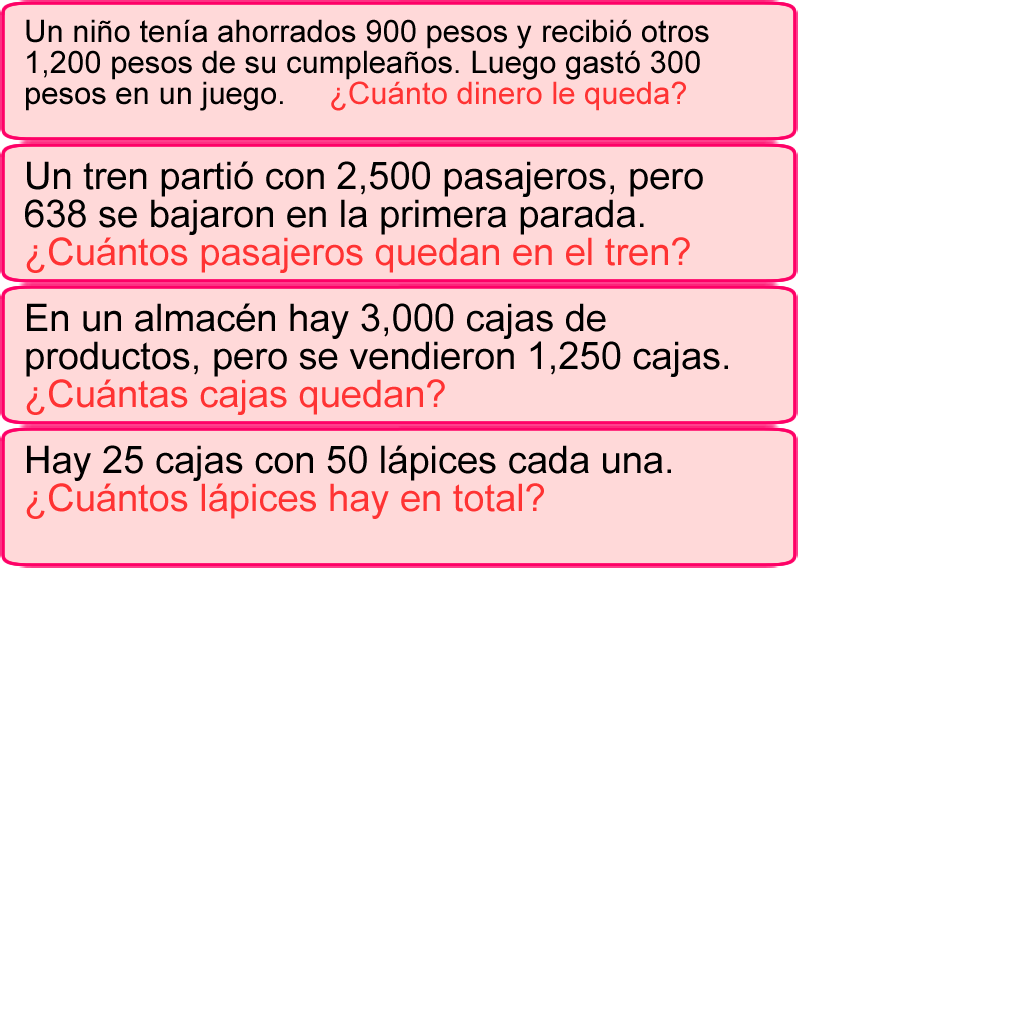
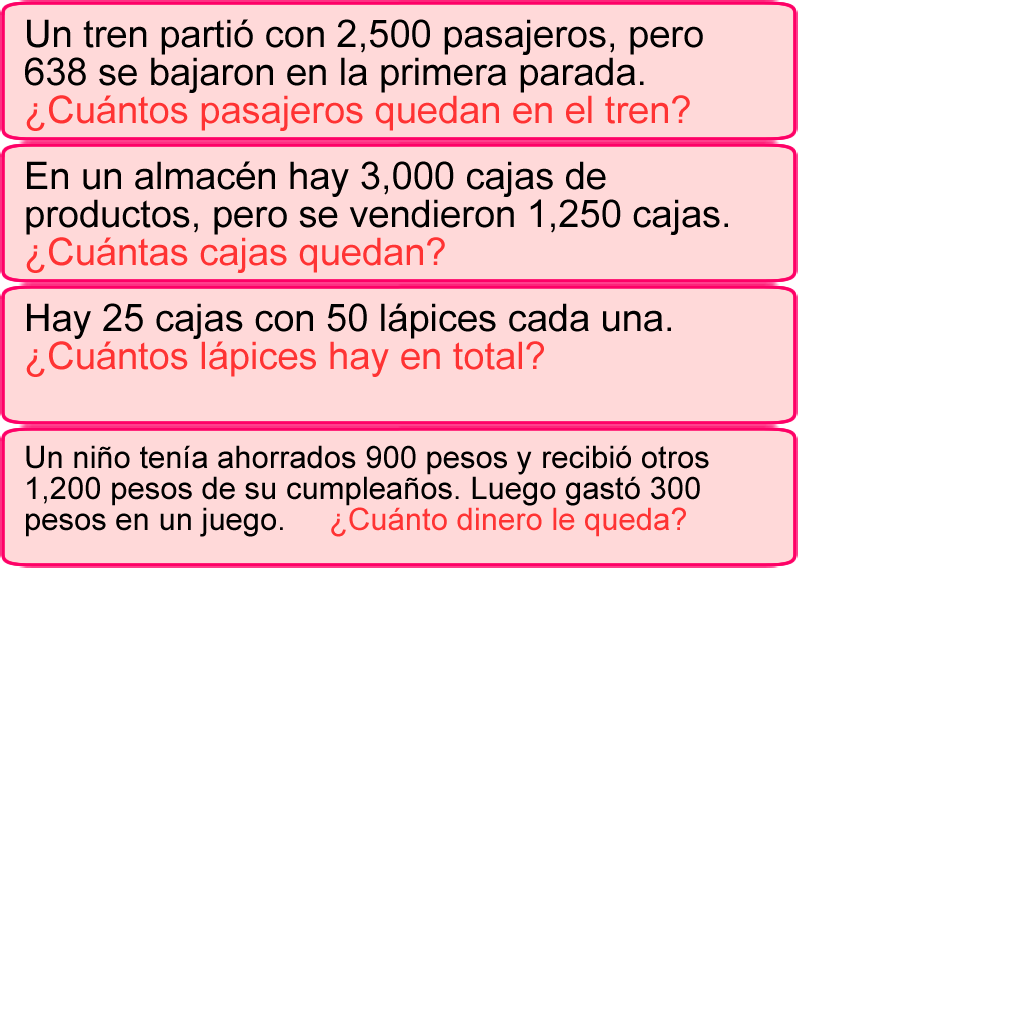
Add files via upload

Changed region(s): [[0.0, 0.1562, 0.7188, 0.4062], [0.0, 0.0, 0.6875, 0.125], [0.0, 0.4375, 0.6875, 0.5312]]

diff --git a/data.js b/data.js
@@ -1,1 +1,1 @@
-{"project": [null,null,[[0,true,false,false,false,false,false,false,false,false],[1,true,false,false,false,false,false,false,false,false],[2,true,false,false,false,false,false,false,false,false],[3,false,true,true,true,true,true,true,true,false],[4,false,true,true,true,false,false,false,false,false]],[["t0",3,false,[963514120574553],0,0,null,[["Default",5,false,1,0,false,545034000183286,[["images/lapiz-sheet0.png",58443,0,0,500,480,1,0.2119999974966049,0.7708333134651184,[["Imagepoint 1",-0.01600000075995922,0.9791666865348816]],[0.2879999876022339,-0.4841145575046539,0.7174670696258545,-0.7005208134651184,0.4972476363182068,-0.2708333134651184,0.2879999876022339,-0.06302082538604736,-0.2119999974966049,0.2291666865348816,0.07326646149158478,-0.2708333134651184],0]]]],[],false,false,369520890330370,[],null],["t1",3,false,[],0,0,null,[["Default",5,false,1,0,false,902516769437391,[["images/tinta-sheet0.png",274,0,0,10,10,1,0.5,0.4000000059604645,[],[],0]]]],[],false,false,165167700904838,[],null],["t2",2,false,[],0,0,null,null,[],false,false,868622214125890,[],null,[]],["t3",1,false,[],0,0,null,null,[],false,false,523592909338462,[],null,[]],["t4",0,false,[],0,0,null,null,[],false,false,215434366036234,[],null,[0,0,0,1,1,600,600,10000,1]],["t5",3,false,[991712436507700],0,0,null,[["Default",5,false,1,0,false,768885165682088,[["images/borrador-sheet0.png",65471,0,0,400,480,1,0.5899999737739563,0.7604166865348816,[],[0.3137499094009399,-0.00625002384185791,0.3349999785423279,0.07291626930236816,-0.1674999594688416,0.2395833134651184,-0.2250000536441803,0.1687499284744263],0]]]],[],false,false,526862678663448,[],null],["t6",3,false,[],0,0,null,[["Default",5,false,1,0,false,452773302627312,[["images/fondo-sheet0.png",15013,0,0,856,482,1,0.5,0.5,[["borrador",0.0677570104598999,0.5726141333580017],["lapiz",0.8481308221817017,0.6099585294723511]],[],0]]]],[],false,false,102526433246737,[],null],["t7",3,false,[],0,0,null,[["Default",0,false,1,0,false,203614261240739,[["images/texto1-sheet0.png",34806,1,1,796,140,1,0.5,0.5,[],[],0],["images/texto1-sheet0.png",34806,1,143,796,140,1,0.5,0.5,[],[],0],["images/texto1-sheet0.png",34806,1,285,796,140,1,0.5,0.5,[],[],0],["images/texto1-sheet0.png",34806,1,427,796,140,1,0.5,0.5,[],[],0],["images/texto1-sheet0.png",34806,1,143,796,140,1,0.5,0.5,[],[],0]]]],[],false,false,253327349267360,[],null],["t8",4,false,[539826374693850],0,0,null,null,[],false,false,815792745715800,[],null],["t9",3,false,[],0,0,null,[["Default",5,false,1,0,false,722873879145688,[["images/boton_procesar-sheet0.png",1448,0,0,159,37,1,0.5031446814537048,0.5135135054588318,[],[-0.4842767715454102,-0.4324324131011963,-0.00628933310508728,-0.5135135054588318,0.4779874086380005,-0.4324324131011963,0.4968553185462952,-0.02702701091766357,0.4779874086380005,0.4054054021835327,-0.00628933310508728,0.4864864945411682,-0.4842767715454102,0.4054054021835327,-0.5031446814537048,-0.02702701091766357],0]]]],[],false,false,974618950850339,[],null]],[],[["Layout 1",854,480,false,"Event sheet 1",674557661950501,[["Layer 0",0,387918464726495,true,[255,255,255],false,1,1,1,false,false,1,0,0,[[[428,241,0,856,482,0,0,1,0.5,0.5,0,0,[]],6,6,[],[],[0,"Default",0,1]],[[333,-39,0,10,10,0,0,1,0.5,0.4000000059604645,0,0,[]],1,1,[],[],[0,"Default",0,1]],[[53,260,0,70,81,0,0,1,0.5899999737739563,0.7604166865348816,0,0,[]],5,5,[[0]],[],[0,"Default",0,1]],[[432,78,0,796,140,0,0,1,0.5,0.5,0,0,[]],7,7,[],[],[0,"Default",0,1]],[[681,303,0,259,230,0,0,1,0.2119999974966049,0.7708333134651184,0,0,[]],0,0,[[0]],[],[0,"Default",0,1]],[[692,388,0,150,41,0,0,1,0,0,0,0,[]],8,8,[[1654]],[],["","","",1,1,0,0,0,1,""]],[[759,454,0,159,37,0,0,1,0.5031446814537048,0.5135135054588318,0,0,[]],9,9,[],[],[0,"Default",0,1]]],[]]],[],[]],["Layout 2",854,480,false,"Event sheet 1",257439771695897,[["Layer 0",0,102614894634270,true,[255,255,255],false,1,1,1,false,false,1,0,0,[[[428,241,0,856,482,0,0,1,0.5,0.5,0,0,[]],6,10,[],[],[0,"Default",0,1]],[[333,-39,0,10,10,0,0,1,0.5,0.4000000059604645,0,0,[]],1,11,[],[],[0,"Default",0,1]],[[53,260,0,70,81,0,0,1,0.5899999737739563,0.7604166865348816,0,0,[]],5,12,[[0]],[],[0,"Default",0,1]],[[428,79,0,796,140,0,0,1,0.5,0.5,0,0,[]],7,13,[],[],[0,"Default",1,1]],[[681,303,0,259,230,0,0,1,0.2119999974966049,0.7708333134651184,0,0,[]],0,14,[[0]],[],[0,"Default",0,1]],[[692,388,0,150,41,0,0,1,0,0,0,0,[]],8,15,[[1862]],[],["","","",1,1,0,0,0,1,""]],[[759,454,0,159,37,0,0,1,0.5031446814537048,0.5135135054588318,0,0,[]],9,16,[],[],[0,"Default",0,1]]],[]]],[],[]],["Layout 3",854,480,false,"Event sheet 1",104954931457842,[["Layer 0",0,660396981180541,true,[255,255,255],false,1,1,1,false,false,1,0,0,[[[428,241,0,856,482,0,0,1,0.5,0.5,0,0,[]],6,17,[],[],[0,"Default",0,1]],[[333,-39,0,10,10,0,0,1,0.5,0.4000000059604645,0,0,[]],1,18,[],[],[0,"Default",0,1]],[[53,260,0,70,81,0,0,1,0.5899999737739563,0.7604166865348816,0,0,[]],5,19,[[0]],[],[0,"Default",0,1]],[[440,77,0,796,140,0,0,1,0.5,0.5,0,0,[]],7,20,[],[],[0,"Default",2,1]],[[681,303,0,259,230,0,0,1,0.2119999974966049,0.7708333134651184,0,0,[]],0,21,[[0]],[],[0,"Default",0,1]],[[692,388,0,150,41,0,0,1,0,0,0,0,[]],8,22,[[1750]],[],["","","",1,1,0,0,0,1,""]],[[759,454,0,159,37,0,0,1,0.5031446814537048,0.5135135054588318,0,0,[]],9,23,[],[],[0,"Default",0,1]]],[]]],[],[]],["Layout 4",854,480,false,"Event sheet 1",212892210795701,[["Layer 0",0,684734178667018,true,[255,255,255],false,1,1,1,false,false,1,0,0,[[[428,241,0,856,482,0,0,1,0.5,0.5,0,0,[]],6,24,[],[],[0,"Default",0,1]],[[333,-39,0,10,10,0,0,1,0.5,0.4000000059604645,0,0,[]],1,25,[],[],[0,"Default",0,1]],[[53,260,0,70,81,0,0,1,0.5899999737739563,0.7604166865348816,0,0,[]],5,26,[[0]],[],[0,"Default",0,1]],[[438,81,0,796,140,0,0,1,0.5,0.5,0,0,[]],7,27,[],[],[0,"Default",3,1]],[[681,303,0,259,230,0,0,1,0.2119999974966049,0.7708333134651184,0,0,[]],0,28,[[0]],[],[0,"Default",0,1]],[[692,388,0,150,41,0,0,1,0,0,0,0,[]],8,29,[[1250]],[],["","","",1,1,0,0,0,1,""]],[[759,454,0,159,37,0,0,1,0.5031446814537048,0.5135135054588318,0,0,[]],9,30,[],[],[0,"Default",0,1]]],[]]],[],[]],["Layout 5",854,480,false,"Event sheet 1",437222807248648,[["Layer 0",0,617538682693458,true,[255,255,255],false,1,1,1,false,false,1,0,0,[[[428,241,0,856,482,0,0,1,0.5,0.5,0,0,[]],6,31,[],[],[0,"Default",0,1]],[[333,-39,0,10,10,0,0,1,0.5,0.4000000059604645,0,0,[]],1,32,[],[],[0,"Default",0,1]],[[53,260,0,70,81,0,0,1,0.5899999737739563,0.7604166865348816,0,0,[]],5,33,[[0]],[],[0,"Default",0,1]],[[437,78,0,796,140,0,0,1,0.5,0.5,0,0,[]],7,34,[],[],[0,"Default",0,1]],[[681,303,0,259,230,0,0,1,0.2119999974966049,0.7708333134651184,0,0,[]],0,35,[[0]],[],[0,"Default",0,1]],[[692,388,0,150,41,0,0,1,0,0,0,0,[]],8,36,[[1800]],[],["","","",1,1,0,0,0,1,""]],[[759,454,0,159,37,0,0,1,0.5031446814537048,0.5135135054588318,0,0,[]],9,37,[],[],[0,"Default",0,1]]],[]]],[],[]]],[["Event sheet 1",[[1,"respuesta_correcta",0,1654,false,false,318064495038324,false],[1,"respuesta_usuario",0,0,false,false,796068113394231,false],[1,"num1",0,0,false,false,959729062233291,false],[1,"num2",0,-1,false,false,513847806267251,false],[1,"num3",0,-1,false,false,676892353871683,false],[1,"num4",0,-1,false,false,100949910316343,false],[1,"num5",0,-1,false,false,164575451783024,false],[0,null,false,null,857413348285857,[[-1,5,null,0,false,false,false,832694222840839,false]],[],[[0,null,false,null,549381628580905,[[2,6,null,0,false,false,false,199469126168162,false,[[3,0]]],[0,7,null,0,false,false,false,335558193750652,false,[[10,0]]]],[[0,8,null,379291334671918,false,[[4,1],[5,[0,0]],[7,[0,1]]]]]]]],[0,null,false,null,122458074394285,[[-1,5,null,0,false,false,false,802344853006958,false],[0,7,null,0,false,false,false,632744117045761,false,[[10,0]]]],[[0,9,null,201782374521311,false,[[0,[20,2,10,false,null]],[0,[20,2,11,false,null]]]]]],[0,null,false,null,967606903515356,[[3,12,null,1,false,false,false,332623174171680,false,[[9,76]]]],[[0,13,null,608198263872462,false,[[10,0]]]]],[0,null,false,null,894568898470166,[[-1,5,null,0,false,false,false,732455478626741,false]],[],[[0,null,false,null,856220394529333,[[5,14,null,0,false,false,true,790707064075532,false,[[4,1]]],[2,6,null,0,false,false,false,464683241660625,false,[[3,0]]],[5,7,null,0,false,false,false,986016481161278,false,[[10,0]]]],[[1,15,null,149342874857337,false]]]]],[0,null,false,null,437326196916179,[[-1,5,null,0,false,false,false,849102551878346,false],[5,7,null,0,false,false,false,905732880154165,false,[[10,0]]]],[[5,9,null,222970185579971,false,[[0,[20,2,10,false,null]],[0,[20,2,11,false,null]]]]]],[0,null,false,null,838303917312669,[[3,12,null,1,false,false,false,677038393346472,false,[[9,66]]]],[[5,13,null,520696534113602,false,[[10,0]]]]],[0,null,false,null,640352117616280,[[5,7,null,0,false,true,false,965757153706275,false,[[10,0]]]],[[5,9,null,558093176259746,false,[[0,[20,6,16,false,null,[[2,"borrador"]]]],[0,[20,6,17,false,null,[[2,"borrador"]]]]]]]],[0,null,false,null,277287622419109,[[0,7,null,0,false,true,false,754961941303551,false,[[10,0]]]],[[0,9,null,812328925580156,false,[[0,[20,6,16,false,null,[[2,"lapiz"]]]],[0,[20,6,17,false,null,[[2,"lapiz"]]]]]]]],[0,null,false,null,708073542242597,[[-1,18,null,1,false,false,false,893500014799386,false]],[[8,19,null,212132405689759,false,[[1,[2,"color"]],[1,[2,"#990066"]]]],[8,19,null,882048762662336,false,[[1,[2,"font-size"]],[1,[2,"1.2em"]]]],[8,19,null,868990556651870,false,[[1,[2,"text.align"]],[1,[2,"center"]]]]]],[0,null,false,null,531963878395634,[[3,12,null,1,false,false,false,925943113691384,false,[[9,67]]]],[[1,15,null,669201499517688,false]]],[0,null,false,null,386958850331255,[[2,20,null,1,false,false,false,208999573758805,false,[[3,0],[3,0],[4,9]]]],[],[[0,null,false,null,359063753187591,[[-1,21,null,0,false,false,false,431910019733360,false,[[11,"respuesta_correcta"],[8,0],[7,[21,8,false,null,0]]]]],[[4,22,null,399911789349112,false,[[2,["aplausos_poder",false]],[3,0],[0,[0,0]],[1,[2,"aplausos"]]]],[-1,23,null,370872875377901,false,[[0,[0,4]]]],[-1,24,null,502356495122082,false,[[3,0]]]]]]]]]],[["aplausos.m4a",292582],["aplausos.ogg",361193],["aplausos_poder.m4a",85370],["aplausos_poder.ogg",110454]],"media/",false,854,480,4,true,true,true,"1.0.0.0",true,false,4,0,38,false,true,1,true,"pizarra_tres_operaciones",0,[]]}
+{"project": [null,null,[[0,true,false,false,false,false,false,false,false,false],[1,true,false,false,false,false,false,false,false,false],[2,true,false,false,false,false,false,false,false,false],[3,false,true,true,true,false,false,false,false,false],[4,false,true,true,true,true,true,true,true,false]],[["t0",4,false,[963514120574553],0,0,null,[["Default",5,false,1,0,false,545034000183286,[["images/lapiz-sheet0.png",58443,0,0,500,480,1,0.2119999974966049,0.7708333134651184,[["Imagepoint 1",-0.01600000075995922,0.9791666865348816]],[0.2879999876022339,-0.4841143190860748,0.7174670100212097,-0.7005208134651184,0.4972479939460754,-0.2708333134651184,0.2879999876022339,-0.06302130222320557,-0.2119999974966049,0.2291666865348816,0.07326601445674896,-0.2708333134651184],0]]]],[],false,false,369520890330370,[],null],["t1",4,false,[],0,0,null,[["Default",5,false,1,0,false,902516769437391,[["images/tinta-sheet0.png",274,0,0,10,10,1,0.5,0.4000000059604645,[],[],0]]]],[],false,false,165167700904838,[],null],["t2",1,false,[],0,0,null,null,[],false,false,868622214125890,[],null,[]],["t3",2,false,[],0,0,null,null,[],false,false,523592909338462,[],null,[]],["t4",0,false,[],0,0,null,null,[],false,false,215434366036234,[],null,[0,0,0,1,1,600,600,10000,1]],["t5",4,false,[991712436507700],0,0,null,[["Default",5,false,1,0,false,768885165682088,[["images/borrador-sheet0.png",65471,0,0,400,480,1,0.5899999737739563,0.7604166865348816,[],[0.3137500286102295,-0.006249666213989258,0.3350000381469727,0.07291632890701294,-0.1674999594688416,0.2395833134651184,-0.2249999642372131,0.1687502861022949],0]]]],[],false,false,526862678663448,[],null],["t6",4,false,[],0,0,null,[["Default",5,false,1,0,false,452773302627312,[["images/fondo-sheet0.png",15013,0,0,856,482,1,0.5,0.5,[["borrador",0.0677570104598999,0.5726141333580017],["lapiz",0.8481308221817017,0.6099585294723511]],[],0]]]],[],false,false,102526433246737,[],null],["t7",4,false,[],0,0,null,[["Default",0,false,1,0,false,203614261240739,[["images/texto1-sheet0.png",34806,1,1,796,140,1,0.5,0.5,[],[],0],["images/texto1-sheet0.png",34806,1,143,796,140,1,0.5,0.5,[],[],0],["images/texto1-sheet0.png",34806,1,285,796,140,1,0.5,0.5,[],[],0],["images/texto1-sheet0.png",34806,1,1,796,140,1,0.5,0.5,[],[],0],["images/texto1-sheet0.png",34806,1,427,796,140,1,0.5,0.5,[],[],0]]]],[],false,false,253327349267360,[],null],["t8",3,false,[539826374693850],0,0,null,null,[],false,false,815792745715800,[],null],["t9",4,false,[],0,0,null,[["Default",5,false,1,0,false,722873879145688,[["images/boton_procesar-sheet0.png",1448,0,0,159,37,1,0.5031446814537048,0.5135135054588318,[],[-0.4842767715454102,-0.4324324131011963,-0.006289690732955933,-0.5135135054588318,0.4779872894287109,-0.4324324131011963,0.4968553185462952,-0.02702751755714417,0.4779872894287109,0.4054055213928223,-0.006289690732955933,0.4864864945411682,-0.4842767715454102,0.4054055213928223,-0.5031446814537048,-0.02702751755714417],0]]]],[],false,false,974618950850339,[],null]],[],[["Layout 1",854,480,false,"Event sheet 1",674557661950501,[["Layer 0",0,387918464726495,true,[255,255,255],false,1,1,1,false,false,1,0,0,[[[428,241,0,856,482,0,0,1,0.5,0.5,0,0,[]],6,6,[],[],[0,"Default",0,1]],[[333,-39,0,10,10,0,0,1,0.5,0.4000000059604645,0,0,[]],1,1,[],[],[0,"Default",0,1]],[[53,260,0,70,81,0,0,1,0.5899999737739563,0.7604166865348816,0,0,[]],5,5,[[0]],[],[0,"Default",0,1]],[[432,78,0,796,140,0,0,1,0.5,0.5,0,0,[]],7,7,[],[],[0,"Default",0,1]],[[681,303,0,259,230,0,0,1,0.2119999974966049,0.7708333134651184,0,0,[]],0,0,[[0]],[],[0,"Default",0,1]],[[692,388,0,150,41,0,0,1,0,0,0,0,[]],8,8,[[1862]],[],["","","",1,1,0,0,0,1,""]],[[759,454,0,159,37,0,0,1,0.5031446814537048,0.5135135054588318,0,0,[]],9,9,[],[],[0,"Default",0,1]]],[]]],[],[]],["Layout 2",854,480,false,"Event sheet 1",257439771695897,[["Layer 0",0,102614894634270,true,[255,255,255],false,1,1,1,false,false,1,0,0,[[[428,241,0,856,482,0,0,1,0.5,0.5,0,0,[]],6,10,[],[],[0,"Default",0,1]],[[333,-39,0,10,10,0,0,1,0.5,0.4000000059604645,0,0,[]],1,11,[],[],[0,"Default",0,1]],[[53,260,0,70,81,0,0,1,0.5899999737739563,0.7604166865348816,0,0,[]],5,12,[[0]],[],[0,"Default",0,1]],[[428,79,0,796,140,0,0,1,0.5,0.5,0,0,[]],7,13,[],[],[0,"Default",1,1]],[[681,303,0,259,230,0,0,1,0.2119999974966049,0.7708333134651184,0,0,[]],0,14,[[0]],[],[0,"Default",0,1]],[[692,388,0,150,41,0,0,1,0,0,0,0,[]],8,15,[[1750]],[],["","","",1,1,0,0,0,1,""]],[[759,454,0,159,37,0,0,1,0.5031446814537048,0.5135135054588318,0,0,[]],9,16,[],[],[0,"Default",0,1]]],[]]],[],[]],["Layout 3",854,480,false,"Event sheet 1",104954931457842,[["Layer 0",0,660396981180541,true,[255,255,255],false,1,1,1,false,false,1,0,0,[[[428,241,0,856,482,0,0,1,0.5,0.5,0,0,[]],6,17,[],[],[0,"Default",0,1]],[[333,-39,0,10,10,0,0,1,0.5,0.4000000059604645,0,0,[]],1,18,[],[],[0,"Default",0,1]],[[53,260,0,70,81,0,0,1,0.5899999737739563,0.7604166865348816,0,0,[]],5,19,[[0]],[],[0,"Default",0,1]],[[440,77,0,796,140,0,0,1,0.5,0.5,0,0,[]],7,20,[],[],[0,"Default",2,1]],[[681,303,0,259,230,0,0,1,0.2119999974966049,0.7708333134651184,0,0,[]],0,21,[[0]],[],[0,"Default",0,1]],[[692,388,0,150,41,0,0,1,0,0,0,0,[]],8,22,[[1250]],[],["","","",1,1,0,0,0,1,""]],[[759,454,0,159,37,0,0,1,0.5031446814537048,0.5135135054588318,0,0,[]],9,23,[],[],[0,"Default",0,1]]],[]]],[],[]],["Layout 5",854,480,false,"Event sheet 1",437222807248648,[["Layer 0",0,617538682693458,true,[255,255,255],false,1,1,1,false,false,1,0,0,[[[428,241,0,856,482,0,0,1,0.5,0.5,0,0,[]],6,31,[],[],[0,"Default",0,1]],[[333,-39,0,10,10,0,0,1,0.5,0.4000000059604645,0,0,[]],1,32,[],[],[0,"Default",0,1]],[[53,260,0,70,81,0,0,1,0.5899999737739563,0.7604166865348816,0,0,[]],5,33,[[0]],[],[0,"Default",0,1]],[[437,78,0,796,140,0,0,1,0.5,0.5,0,0,[]],7,34,[],[],[0,"Default",4,1]],[[681,303,0,259,230,0,0,1,0.2119999974966049,0.7708333134651184,0,0,[]],0,35,[[0]],[],[0,"Default",0,1]],[[692,388,0,150,41,0,0,1,0,0,0,0,[]],8,36,[[1800]],[],["","","",1,1,0,0,0,1,""]],[[759,454,0,159,37,0,0,1,0.5031446814537048,0.5135135054588318,0,0,[]],9,37,[],[],[0,"Default",0,1]]],[]]],[],[]]],[["Event sheet 1",[[1,"respuesta_correcta",0,1654,false,false,318064495038324,false],[1,"respuesta_usuario",0,0,false,false,796068113394231,false],[1,"num1",0,0,false,false,959729062233291,false],[1,"num2",0,-1,false,false,513847806267251,false],[1,"num3",0,-1,false,false,676892353871683,false],[1,"num4",0,-1,false,false,100949910316343,false],[1,"num5",0,-1,false,false,164575451783024,false],[0,null,false,null,857413348285857,[[-1,5,null,0,false,false,false,832694222840839,false]],[],[[0,null,false,null,549381628580905,[[2,6,null,0,false,false,false,199469126168162,false,[[3,0]]],[0,7,null,0,false,false,false,335558193750652,false,[[10,0]]]],[[0,8,null,379291334671918,false,[[4,1],[5,[0,0]],[7,[0,1]]]]]]]],[0,null,false,null,122458074394285,[[-1,5,null,0,false,false,false,802344853006958,false],[0,7,null,0,false,false,false,632744117045761,false,[[10,0]]]],[[0,9,null,201782374521311,false,[[0,[20,2,10,false,null]],[0,[20,2,11,false,null]]]]]],[0,null,false,null,967606903515356,[[3,12,null,1,false,false,false,332623174171680,false,[[9,76]]]],[[0,13,null,608198263872462,false,[[10,0]]]]],[0,null,false,null,894568898470166,[[-1,5,null,0,false,false,false,732455478626741,false]],[],[[0,null,false,null,856220394529333,[[5,14,null,0,false,false,true,790707064075532,false,[[4,1]]],[2,6,null,0,false,false,false,464683241660625,false,[[3,0]]],[5,7,null,0,false,false,false,986016481161278,false,[[10,0]]]],[[1,15,null,149342874857337,false]]]]],[0,null,false,null,437326196916179,[[-1,5,null,0,false,false,false,849102551878346,false],[5,7,null,0,false,false,false,905732880154165,false,[[10,0]]]],[[5,9,null,222970185579971,false,[[0,[20,2,10,false,null]],[0,[20,2,11,false,null]]]]]],[0,null,false,null,838303917312669,[[3,12,null,1,false,false,false,677038393346472,false,[[9,66]]]],[[5,13,null,520696534113602,false,[[10,0]]]]],[0,null,false,null,640352117616280,[[5,7,null,0,false,true,false,965757153706275,false,[[10,0]]]],[[5,9,null,558093176259746,false,[[0,[20,6,16,false,null,[[2,"borrador"]]]],[0,[20,6,17,false,null,[[2,"borrador"]]]]]]]],[0,null,false,null,277287622419109,[[0,7,null,0,false,true,false,754961941303551,false,[[10,0]]]],[[0,9,null,812328925580156,false,[[0,[20,6,16,false,null,[[2,"lapiz"]]]],[0,[20,6,17,false,null,[[2,"lapiz"]]]]]]]],[0,null,false,null,708073542242597,[[-1,18,null,1,false,false,false,893500014799386,false]],[[8,19,null,212132405689759,false,[[1,[2,"color"]],[1,[2,"#990066"]]]],[8,19,null,882048762662336,false,[[1,[2,"font-size"]],[1,[2,"1.2em"]]]],[8,19,null,868990556651870,false,[[1,[2,"text.align"]],[1,[2,"center"]]]]]],[0,null,false,null,531963878395634,[[3,12,null,1,false,false,false,925943113691384,false,[[9,67]]]],[[1,15,null,669201499517688,false]]],[0,null,false,null,386958850331255,[[2,20,null,1,false,false,false,208999573758805,false,[[3,0],[3,0],[4,9]]]],[],[[0,null,false,null,359063753187591,[[-1,21,null,0,false,false,false,431910019733360,false,[[11,"respuesta_correcta"],[8,0],[7,[21,8,false,null,0]]]]],[[4,22,null,399911789349112,false,[[2,["aplausos_poder",false]],[3,0],[0,[0,0]],[1,[2,"aplausos"]]]],[-1,23,null,370872875377901,false,[[0,[0,4]]]],[-1,24,null,502356495122082,false,[[3,0]]]]]]]]]],[["aplausos.m4a",292582],["aplausos.ogg",361193],["aplausos_poder.m4a",85370],["aplausos_poder.ogg",110454]],"media/",false,854,480,4,true,true,true,"1.0.0.0",true,false,4,0,38,false,true,1,true,"pizarra_tres_operaciones",0,[]]}

diff --git a/c2runtime.js b/c2runtime.js
@@ -377,4 +377,4 @@ readonly:!!this.n.readOnly,spellcheck:!!this.n.spellcheck}};n.Jc=function(c){thi
 this.y+this.height,!1),e=this.b.width/this.b.devicePixelRatio,d=this.b.height/this.b.devicePixelRatio;!this.visible||!this.e.visible||0>=h||0>=k||b>=e||a>=d?(this.xe||jQuery(this.n).hide(),this.xe=!0):(1>b&&(b=1),1>a&&(a=1),h>=e&&(h=e-1),k>=d&&(k=d-1),e=window.innerWidth,d=window.innerHeight,c||this.Im!==b||this.Mm!==a||this.Km!==h||this.Gm!==k||this.Om!==e||this.Nm!==d?(this.Im=b,this.Mm=a,this.Km=h,this.Gm=k,this.Om=e,this.Nm=d,this.xe&&(jQuery(this.n).show(),this.xe=!1),c=Math.round(b)+jQuery(this.b.canvas).offset().left,
 e=Math.round(a)+jQuery(this.b.canvas).offset().top,jQuery(this.n).css("position","absolute"),jQuery(this.n).offset({left:c,top:e}),jQuery(this.n).width(Math.round(h-b)),jQuery(this.n).height(Math.round(k-a)),this.Ip&&jQuery(this.n).css("font-size",this.e.Yb(!0)/this.b.devicePixelRatio-.2+"em")):this.xe&&(jQuery(this.n).show(),this.xe=!1))}};n.Td=function(){};n.nc=function(){};c.prototype.up=function(){return!0};c.prototype.np=function(){return!0};c.prototype.qp=function(){return!0};k.i=new c;h.prototype.yp=
 function(c){this.b.pa||(this.visible=0!==c)};h.prototype.wp=function(c,b){this.b.pa||jQuery(this.n).css(c,b)};k.ib=new h;k.sb=new function(){}})();
-function lc(){return[nc,oc,pc,mc,qc,Z.prototype.i.Yo,pc.prototype.i.dp,mc.prototype.i.cp,mc.prototype.ib.zp,mc.prototype.ib.xp,pc.prototype.sb.Al,pc.prototype.sb.Bl,oc.prototype.i.sl,mc.prototype.ib.Ap,mc.prototype.i.op,mc.prototype.ib.Wo,mc.prototype.sb.Zo,mc.prototype.sb.$o,Z.prototype.i.wl,qc.prototype.ib.wp,pc.prototype.i.gj,Z.prototype.i.Vo,nc.prototype.ib.Play,Z.prototype.ib.Bp,Z.prototype.ib.hp]};
+function lc(){return[nc,pc,oc,qc,mc,Z.prototype.i.Yo,pc.prototype.i.dp,mc.prototype.i.cp,mc.prototype.ib.zp,mc.prototype.ib.xp,pc.prototype.sb.Al,pc.prototype.sb.Bl,oc.prototype.i.sl,mc.prototype.ib.Ap,mc.prototype.i.op,mc.prototype.ib.Wo,mc.prototype.sb.Zo,mc.prototype.sb.$o,Z.prototype.i.wl,qc.prototype.ib.wp,pc.prototype.i.gj,Z.prototype.i.Vo,nc.prototype.ib.Play,Z.prototype.ib.Bp,Z.prototype.ib.hp]};

diff --git a/offline.js b/offline.js
@@ -1,5 +1,5 @@
 {
-	"version": 1738163617,
+	"version": 1738165045,
 	"fileList": [
 		"data.js",
 		"c2runtime.js",
